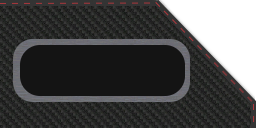
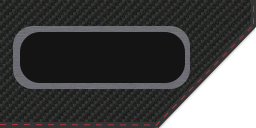
2D particles, HUD and orbital camera ported to GL3

diff --git a/racerForever.py b/racerForever.py
@@ -106,9 +106,6 @@ class Game:
         glClear(GL_COLOR_BUFFER_BIT | GL_DEPTH_BUFFER_BIT)
 
         GL.GLM.perspective(25, Window.WIDTH/Window.HEIGHT, 0.1, 12000)
-        GL.GLM.selectMatrix(MATRIX.VIEW)
-        GL.GLM.rotate(180, 0, 1, 0)
-        GL.GLM.translate(-RoadPositions.MIDDLE_LANE, -50, 0)
         GL.GLM.selectMatrix(MATRIX.MODEL)
         GL.GLM.loadIdentity()
 
@@ -435,7 +432,10 @@ class Game:
     def draw(self):
         glClearColor(0, 0, 0, 0)
         glClear(GL_COLOR_BUFFER_BIT | GL_DEPTH_BUFFER_BIT)
-        
+
+        #GL.GLM.selectMatrix(MATRIX.VIEW)
+        #GL.GLM.pushMatrix()
+        #GL.GLM.selectMatrix(MATRIX.MODEL)
         for player in self.players:
             player.draw()
         
@@ -449,6 +449,8 @@ class Game:
 
         # ParticleManager.draw_3d()
 
+        #GL.GLM.selectMatrix(MATRIX.VIEW)
+        #GL.GLM.popMatrix()
         self.draw_hud()
         
         pygame.display.flip()
@@ -458,57 +460,46 @@ class Game:
 
         glDisable(GL_DEPTH_TEST)
         glDepthMask(GL_FALSE)
-        # glDisable(GL_LIGHTING)
-        # glDisable(GL_BLEND)
-        #if sun:
-        #    glDisable(GL_LIGHT0)
-        #if lamps:
-        #    glDisable(GL_LIGHT1)
-        #    glDisable(GL_LIGHT2)
-        #    glDisable(GL_LIGHT3)
-        #    glDisable(GL_LIGHT4)
-        
-        #glEnable(GL_LIGHT7)
-        
+
         GL.GLM.selectMatrix(MATRIX.PROJECTION)
         GL.GLM.pushMatrix()
         GL.GLM.loadIdentity()
         GL.GLM.otho(0, Window.WIDTH, Window.HEIGHT, 0, -1, 1)
 
+        GL.GLM.selectMatrix(MATRIX.VIEW)
+        GL.GLM.loadIdentity()
+
         GL.GLM.selectMatrix(MATRIX.MODEL)
         GL.GLM.pushMatrix()
         GL.GLM.loadIdentity()
 
-        glColor3f(0, 0, 0)
         for player in self.players:
             color = (255, 255, 255, 255)
             if player.score <= 0:
                 color = (255, 0, 0, 255)
             GL.GLM.pushMatrix()
-            GL.GLM.translate(HUD.SCORE_HUD_POS_X[player.player_id], HUD.SCORE_HUD_POS_Y[player.player_id], 0)
+            GL.GLM.scale(1, -1, 1)
             self.pointsHUD.drawGL3()
             GL.GLM.popMatrix()
             glDisable(GL_TEXTURE_2D)
-            drawText(HUD.SCORE_POS_X[player.player_id], HUD.SCORE_POS_Y[player.player_id], color, (20, 20, 20, 0), "SCORE: " + str(int(player.score)))
+            #glColor3f(0, 0, 0)
+            #drawText(HUD.SCORE_POS_X[player.player_id], HUD.SCORE_POS_Y[player.player_id], color, (0, 0, 0, 1), "SCORE: " + str(int(player.score)))
             GL.GLM.pushMatrix()
-            GL.GLM.translate(HUD.INVENTORY_X[player.player_id], Window.HEIGHT - 55, 0)
+            GL.GLM.translate(0, Window.HEIGHT, 0)
+            GL.GLM.scale(1, -1, 1)
             self.powerUpsHUD.drawGL3()
             GL.GLM.pushMatrix()
             GL.GLM.translate(-10, 40, 0)
             GL.GLM.rotate(180, 1, 0, 0)
             for i in range(PowerUps.INVENTORY_SIZE):
                 GL.GLM.translate(58, 0, 0)
-                if i < len(player.inventory):
-                    draw_rectangle(32, 32, player.inventory[i].icon)
-                else:
-                    draw_rectangle(32, 32, PowerUps.EMPTY)
+                #if i < len(player.inventory):
+                    #draw_rectangle(32, 32, player.inventory[i].icon)
+                #else:
+                    #draw_rectangle(32, 32, PowerUps.EMPTY)
             GL.GLM.popMatrix()
             GL.GLM.popMatrix()
 
-        GL.GLM.popMatrix()
-
-        GL.GLM.selectMatrix(MATRIX.PROJECTION)
-        GL.GLM.popMatrix()
 
         #glPushMatrix()
         #glLoadIdentity()
@@ -517,9 +508,15 @@ class Game:
         #glMatrixMode(GL_MODELVIEW)
         #glPushMatrix()
         #glLoadIdentity()
-        
-        #ParticleManager.draw()
-        
+
+        ParticleManager.draw()
+
+        GL.GLM.popMatrix()
+        GL.GLM.selectMatrix(MATRIX.PROJECTION)
+        GL.GLM.popMatrix()
+
+
+
         #glPopMatrix()
 
         #glMatrixMode(GL_PROJECTION)
@@ -593,9 +590,9 @@ class Game:
         elif event.type == pygame.QUIT:
             pygame.quit()
             quit()
-        #elif event.type == pygame.MOUSEMOTION:
-        #    for i in range(len(self.players)):
-        #        self.players[i].update_mouse(pygame.mouse.get_rel())
+        elif event.type == pygame.MOUSEMOTION:
+            for i in range(len(self.players)):
+                self.players[i].update_mouse(pygame.mouse.get_rel())
 
     def on_key_press(self, key):
         if key == KeyboardKeys.KEY_ESC:

diff --git a/PointsEmitter.py b/PointsEmitter.py
@@ -1,7 +1,7 @@
 import random
 
 import ParticleManager
-from constants import Speed
+from constants import Speed, Window
 
 
 class PointsEmitter(ParticleManager.ParticleEmitter):
@@ -10,12 +10,12 @@ class PointsEmitter(ParticleManager.ParticleEmitter):
 
     def set_particles(self):
         for particle in self.particles:
-            particle.set_properties(self.x, self.y, 700, 0, self.speed_x + random.randrange(-5, 5) * Speed.ONE_KMH, self.speed_y + random.randrange(-5, 5) * Speed.ONE_KMH, self.size, self.shape, True)
+            particle.set_properties(self.x, self.y, 1700, 0, self.speed_x + random.randrange(-5, 5) * Speed.ONE_KMH, self.speed_y + random.randrange(-5, 5) * Speed.ONE_KMH, self.size, self.shape, True)
 
 
 class Minus10Points(PointsEmitter):
     def __init__(self, x, y, speed_x, speed_y, size=100, shape=ParticleManager.Particles.POINTS, num_of_particles=6):
-        super(Minus10Points, self).__init__(x, y, speed_x, speed_y, size, shape, 0.01, num_of_particles)
+        super(Minus10Points, self).__init__(Window.WIDTH/2, Window.HEIGHT/2, speed_x, speed_y, size, shape, 0.01, num_of_particles)
 
     def set_particles(self):
         for particle in self.particles:
@@ -24,9 +24,9 @@ class Minus10Points(PointsEmitter):
 
 class Plus100Points(PointsEmitter):
     def __init__(self, x, speed):
-        super(Plus100Points, self).__init__(x, 130, speed, 0.1, 200, ParticleManager.Particles.PLUS_100_POINTS, 1, 1)
+        super(Plus100Points, self).__init__(0, Window.HEIGHT/2, speed, 0.1, 200, ParticleManager.Particles.PLUS_100_POINTS, 1, 1)
 
 
 class Minus100Points(PointsEmitter):
     def __init__(self, x, speed):
-        super(Minus100Points, self).__init__(x, 130, speed,  0.1, 400, ParticleManager.Particles.MINUS_100_POINTS, 1, 1)
+        super(Minus100Points, self).__init__(0, Window.HEIGHT/2, speed,  0.1, 400, ParticleManager.Particles.MINUS_100_POINTS, 1, 1)

diff --git a/Player.py b/Player.py
@@ -4,6 +4,7 @@ from Car import Car
 from constants import HUD, Speed, RoadPositions, PowerUps, Window
 from PointsEmitter import Plus100Points, Minus100Points
 from utils import car_circle_collision, draw_3d_rectangle
+from ms3d import MATRIX
 
 
 class Player(Car):
@@ -153,6 +154,7 @@ class Player(Car):
         #glLoadIdentity()
         #gluPerspective(25, Window.WIDTH/Window.HEIGHT, 1, 20400)
         # giuLookAt(self.vertical_position, 30, self.horizontal_position-150, RoadPositions.MIDDLE_LANE,30,RoadPositions.BEYOND_HORIZON, 0,1,0)
+
         #glTranslate(0, 0, -150)
         #glRotate(180, 0, 1, 0)
         #glRotatef(-self.camera_y_rot, 1, 0, 0)
@@ -160,6 +162,14 @@ class Player(Car):
         #glTranslate(-self.vertical_position, -30, -self.horizontal_position)
         #glMatrixMode(GL_MODELVIEW)
 
+        GL.GLM.selectMatrix(MATRIX.VIEW)
+        GL.GLM.loadIdentity()
+        GL.GLM.translate(0, 0, -150)
+        GL.GLM.rotate(180, 0, 1, 0)
+        GL.GLM.rotate(-self.camera_y_rot, 1, 0, 0)
+        GL.GLM.rotate(self.camera_x_rot, 0, 1, 0)
+        GL.GLM.translate(-self.vertical_position, -30, -self.horizontal_position)
+        GL.GLM.selectMatrix(MATRIX.MODEL)
 
         GL.GLM.pushMatrix()
         if self.fire_phaser:

diff --git a/MessageEmitter.py b/MessageEmitter.py
@@ -1,5 +1,5 @@
 import ParticleManager
-from constants import RoadPositions
+from constants import Window
 
 
 class MessageEmitter(ParticleManager.ParticleEmitter):
@@ -13,14 +13,14 @@ class MessageEmitter(ParticleManager.ParticleEmitter):
 
 class HolyShit(MessageEmitter):
     def __init__(self, shape):
-        super(HolyShit, self).__init__(0, RoadPositions.RIGHT_LANE, shape)
+        super(HolyShit, self).__init__(Window.WIDTH/2, Window.HEIGHT/2, shape)
 
 
 class Mayhem(MessageEmitter):
     def __init__(self, shape):
-        super(Mayhem, self).__init__(0, RoadPositions.MIDDLE_LANE, shape)
+        super(Mayhem, self).__init__(Window.WIDTH/2, Window.HEIGHT/2-50, shape)
 
 
 class Annihilation(MessageEmitter):
     def __init__(self, shape):
-        super(Annihilation, self).__init__(0, RoadPositions.LEFT_LANE, shape)
+        super(Annihilation, self).__init__(Window.WIDTH/2, Window.HEIGHT/2-100, shape)

diff --git a/ParticleManager.py b/ParticleManager.py
@@ -1,4 +1,5 @@
 from OpenGL.GL import *
+from OpenGLContext import GL
 
 
 class Particles:
@@ -52,12 +53,12 @@ class Particle:
             self.y += self.speed_y * time_delta
 
     def draw(self):
-        glPushMatrix()
-        glTranslatef(self.x, self.y, 0)
-        glScalef(self.size/self.w, self.size/self.h, 1)
-        self.shape.draw()
-        glPopMatrix()
-       
+        GL.GLM.pushMatrix()
+        GL.GLM.translate(self.x, self.y, 0)
+        GL.GLM.scale(self.size/self.w, -self.size/self.h, 1)
+        self.shape.drawGL3()
+        GL.GLM.popMatrix()
+
 
 class Particle3D:
     def __init__(self):

diff --git a/constants.py b/constants.py
@@ -5,8 +5,12 @@ class Window:
     # WIDTH = 1920
     # HEIGHT = 1080
     # FULLSCREEN = True
+
     WIDTH = 1024
     HEIGHT = 512
+
+    # WIDTH = 1440
+    # HEIGHT = 900
     FULLSCREEN = False
 
     VERSION = "v0.1"
@@ -15,7 +19,7 @@ class Window:
 class HUD:
     PLAYER2_DELTA_X = 400
     SCORE_HUD_POS_X = (0, PLAYER2_DELTA_X)
-    SCORE_HUD_POS_Y = (0, 0)
+    SCORE_HUD_POS_Y = (Window.HEIGHT, 0)
     SCORE_POS_X = (30, 30+PLAYER2_DELTA_X)
     SCORE_POS_Y = (45, 45)
     TIME_OUT_POS_X = (50, 50+PLAYER2_DELTA_X)
